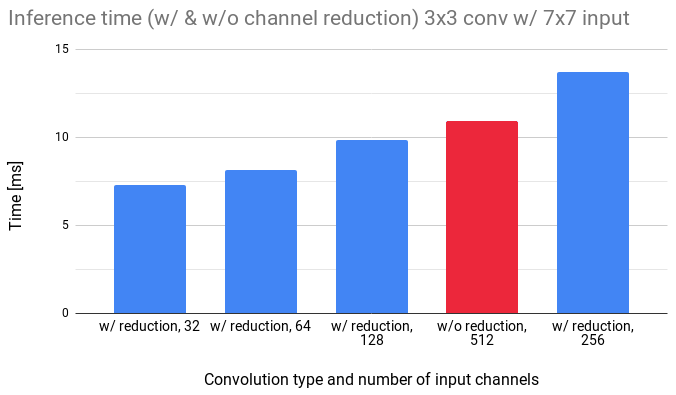
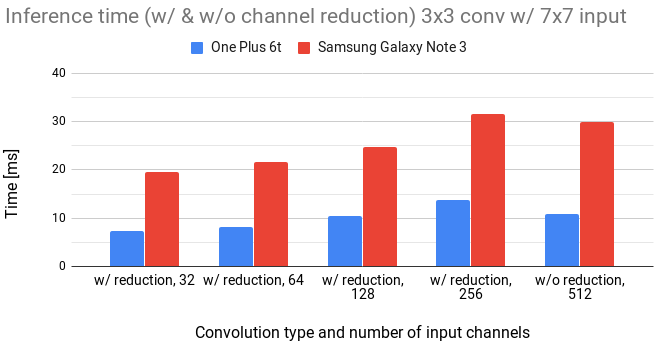
Add Samsung Galaxy Note 3 measurements

diff --git a/_posts/2019-10-01-kill-the-bits.md b/_posts/2019-10-01-kill-the-bits.md
@@ -156,7 +156,7 @@ In the next section, we describe how we implemented and evaluated the proposed a
 <a class="anchor" id="implementation-and-analysis"></a>
 ## Analysis & Implementation
 The authors released an <a href="https://github.com/facebookresearch/kill-the-bits" target="_blank">implementation of paper</a> together with several <a href="https://github.com/facebookresearch/kill-the-bits/tree/master/src/models/compressed" target="_blank">pre-trained models</a>.
-For our analysis, we use ResNet 18 network as an example and all measurements are taken on <a href="https://www.gsmarena.com/oneplus_6t-9350.php" target="_blank">One Plus 6t</a> running modified <a href="https://github.com/bisonai/ncnn" target="_blank">ncnn</a> inference engine.
+For our analysis, we use ResNet 18 network as an example and all experiments are measured on <a href="https://www.gsmarena.com/oneplus_6t-9350.php" target="_blank">One Plus 6t</a> and <a href="https://www.gsmarena.com/samsung_galaxy_note_3-5665.php" target="_blank">Samsung Galaxy Note 3</a> running modified <a href="https://github.com/bisonai/ncnn" target="_blank">ncnn</a> inference engine.
 
 ### Theoretical Speedup
 The computational cost of standard convolution is defined as
@@ -210,7 +210,7 @@ While this implementation promises an accelerated inference time, it should be n
 
 <a class="anchor" id="benchmarking-optimized-convolution"></a>
 ### Benchmarking Optimized Convolution
-In the following figures, we compare the inference time of original 3x3 convolution (denoted as *w/o reduction* and displayed in red color) with 3x3 convolution enhanced by preprocessing of input activation (denoted as *w/ reduction* and displayed in blue color).
+In the following figures, we compare the inference time of original 3x3 convolution (denoted as *w/o reduction*) with 3x3 convolution enhanced by preprocessing of input activations (denoted as *w/ reduction*).
 
 <center>
 <img src="{{ "/img/blog/kill-the-bits/speedup_7x7.png" | prepend: site.url }}" width="70%">
@@ -254,12 +254,12 @@ Network weights are quantized using weighted $k$-means with an objective functio
 The proposed method achieves high compression rates on Resnet-like architectures, however, there was no suggestion in the paper how we could accelerate an inference time with such a quantization scheme.
 
 We proposed a method that modifies input activations and convolutional weights to reduce the number of multiplications in a convolutional layer.
-By benchmarking on a One Plus 6t mobile device, we confirmed a speedup of convolution using our method.
+By benchmarking on a One Plus 6t and a Samsung Galaxy Note 3, we confirmed a speedup of convolution using our method.
 However, in order to achieve any meaningful speed gains the number of channels has to be reduced by at least a factor of 4x.
 
 <a class="anchor" id="notes"></a>
 ## Notes
-All experiments were launched using a <a href="TODO" target="_blank">modified ncnn benchmark</a> on a One Plus 6t with Snapdragon 845.
+All experiments were launched using a <a href="TODO" target="_blank">modified ncnn benchmark</a> on a One Plus 6t with Snapdragon 845 and a Samsung Galaxy Note 3 with Snapdragon 800.
 Every measurement was obtained by averaging 200 continuous runs and removing outliers from the first and last quartile of inference duration distribution.
 Lastly, we always used only a single big core, since it reflects the best an allowed computational power in real-world scenarios.
 
